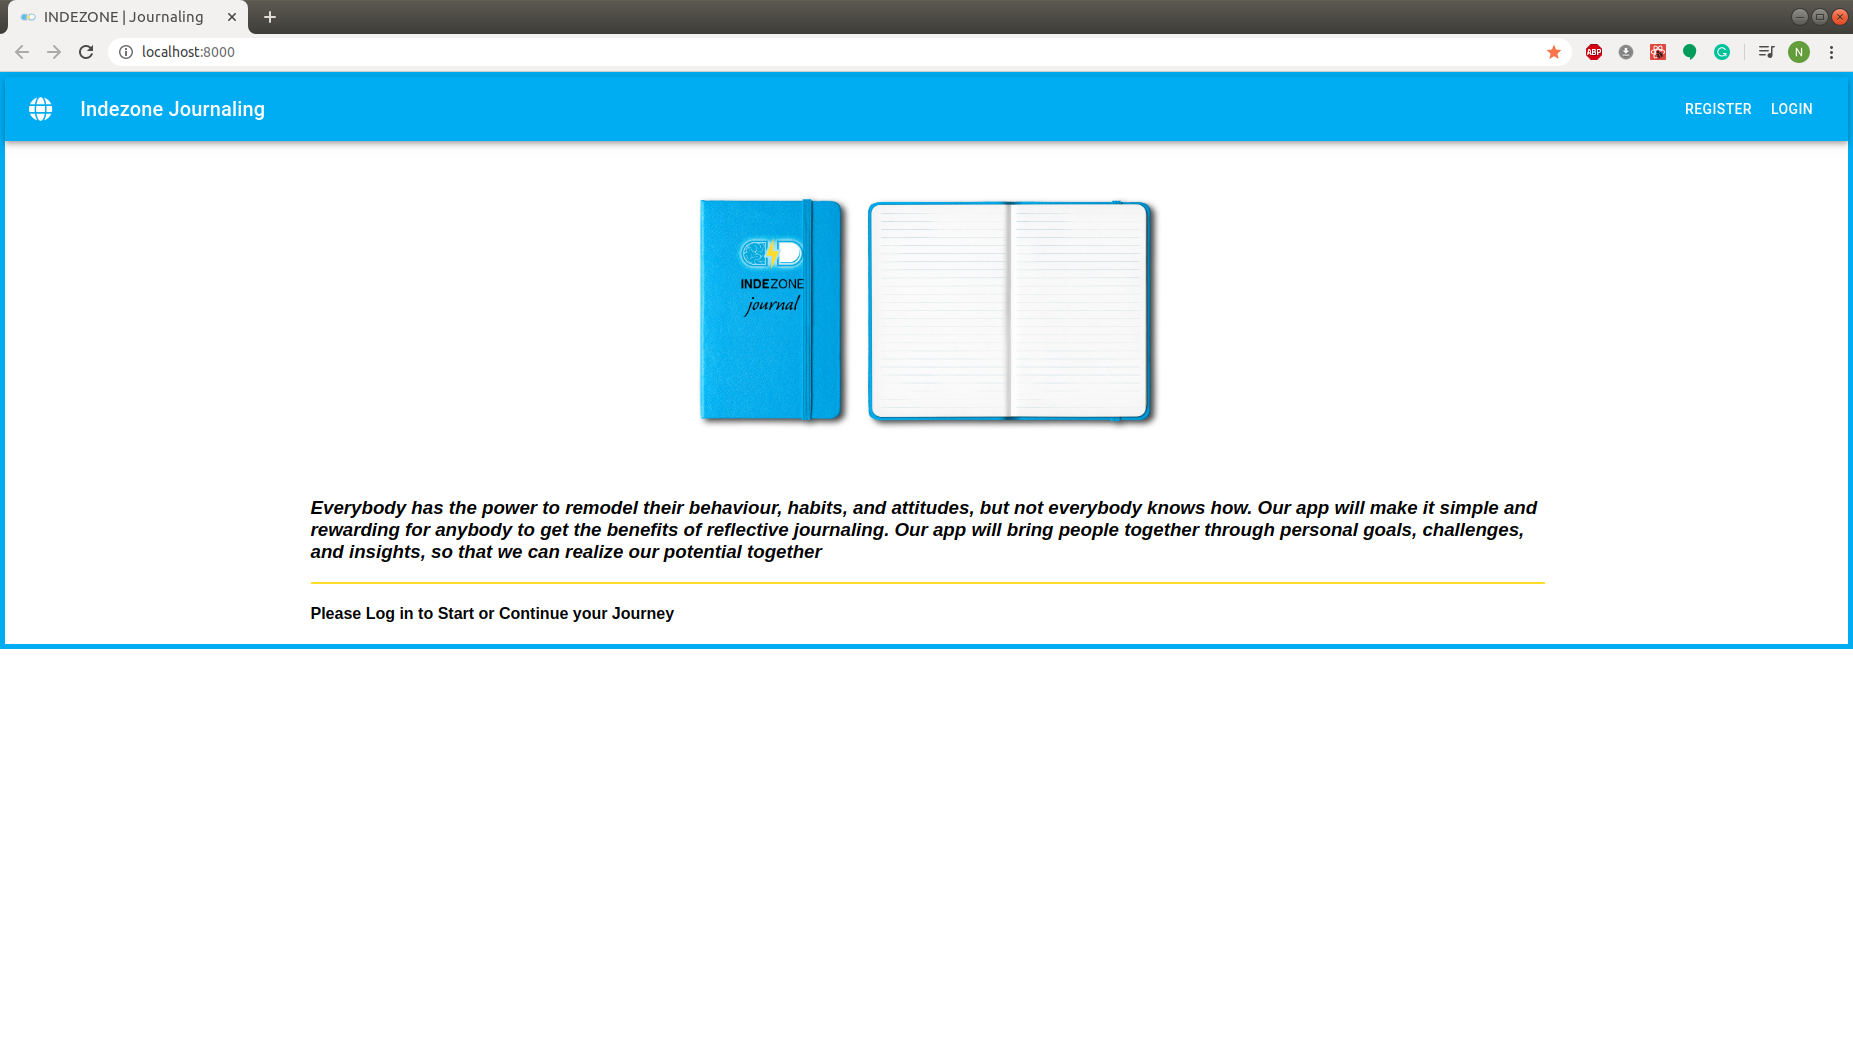
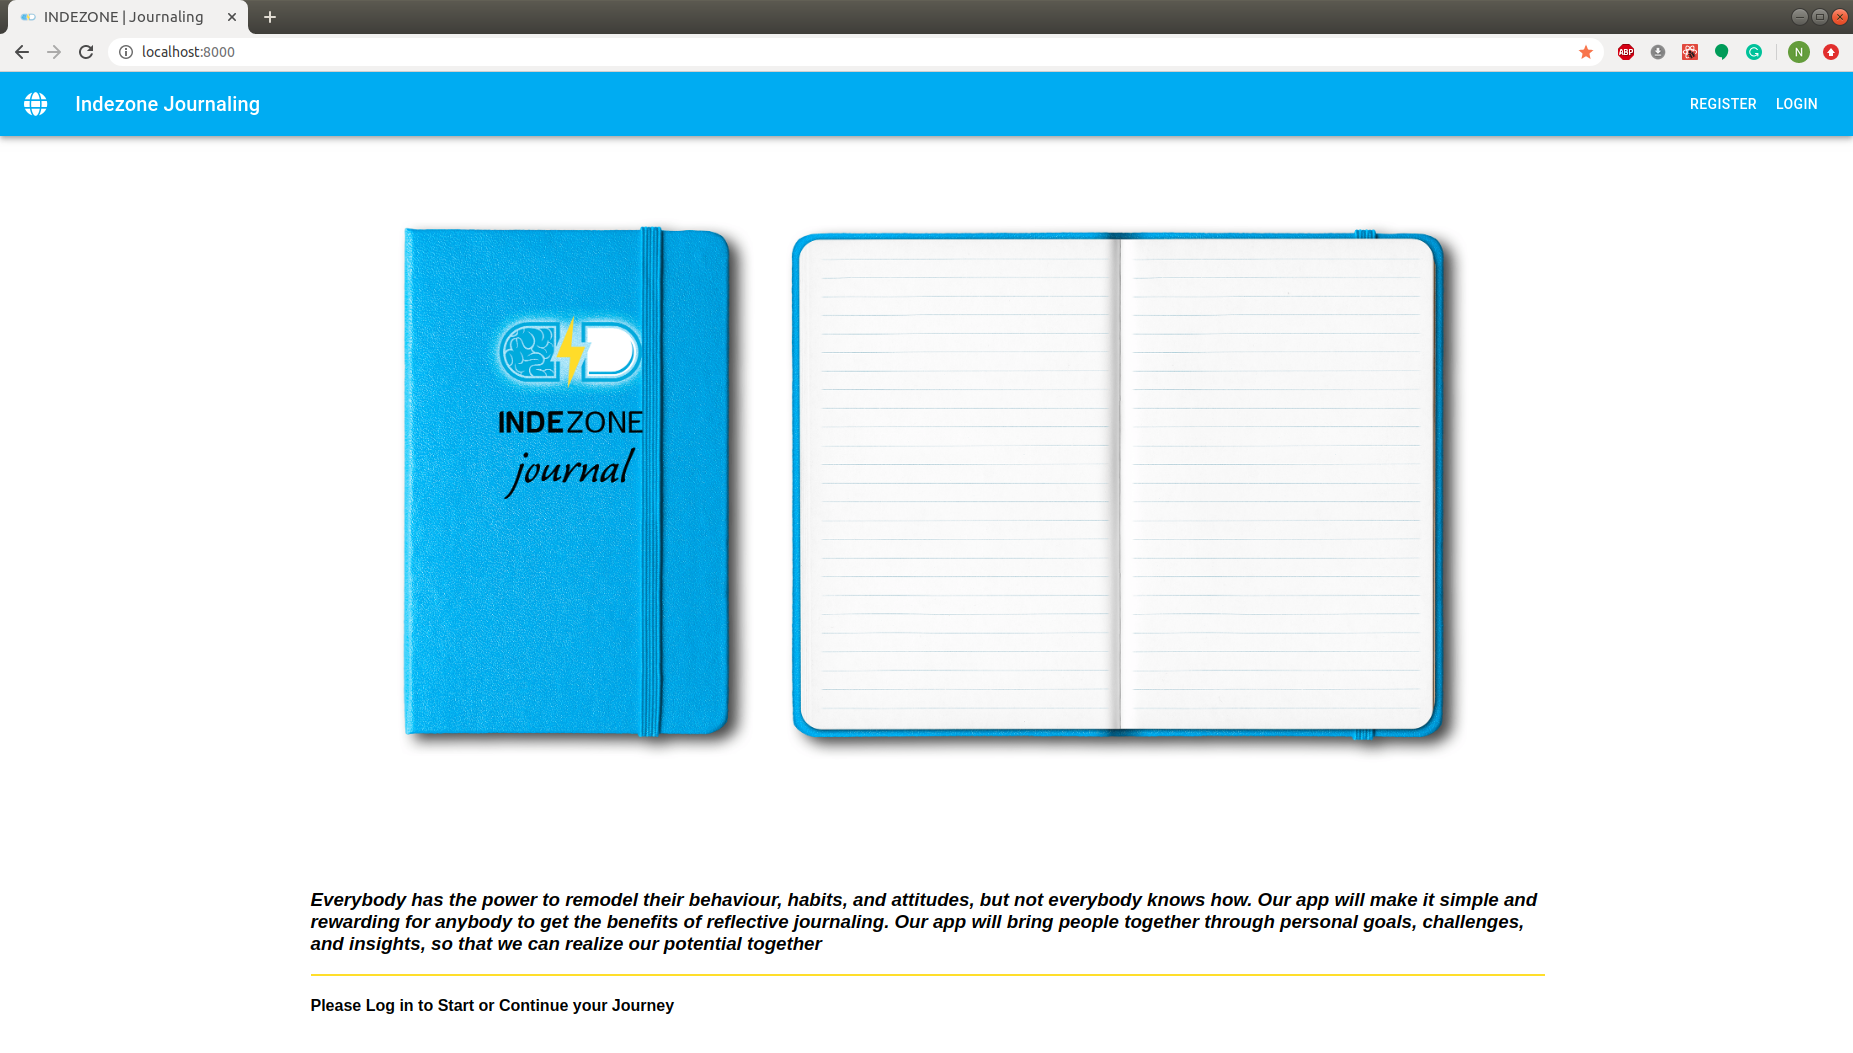
Fix layout issues and refactor code

diff --git a/client/src/components/Bio/Profile.scss b/client/src/components/Bio/Profile.scss
@@ -1,173 +1,6 @@
 @import "../../styles/variables.scss";
 @import "../../styles/mixins.scss";
 
-$prompt-height: 1rem;
-
-.prompt {
-  &__add {
-    min-height: $prompt-height;
-    padding: 2rem 0;
-    display: flex;
-    justify-content: center;
-    align-items: center;
-
-    &-button {
-      @include button-inactive--opacity;
-
-      &:hover {
-        @include button-active--opacity;
-      }
-    }
-  }
-
-  &__time { //I think I replaced this by accident
-    display: flex;
-  }
-
-  &__separator {
-    border: 0;
-    border-bottom: 1px solid darken($white, 5%);
-    width: 100%;
-    margin-left: 1rem;
-  }
-
-  &__card {
-    min-height: $prompt-height;
-    border-radius: 0.5rem;
-    padding: 1.2rem 1.5rem;
-    display: flex;
-    justify-content: space-between;
-    flex-flow: row wrap;
-    color: $white;
-
-    &--create {
-      background-color: $indezone-navy;
-      display: block;
-    }
-
-    &--show {
-      color: rgba($booked-color, $active-opacity);
-      background: linear-gradient(
-        90deg,
-        rgba($booked-color, $active-opacity),
-        rgba($booked-color, $active-opacity) 8px,
-        rgba($booked-color, $inactive-opacity) 0,
-        rgba($booked-color, $inactive-opacity)
-      );
-
-      &:hover {
-        color: darken($white, 5%);
-        background-color: rgba($booked-color, $active-opacity);
-      }
-    }
-
-    &--status {
-      background-color: $indezone-navy;
-      display: flex;
-      justify-content: center;
-      align-items: center;
-    }
-
-    &--confirm {
-      @include border-card($danger-color);
-
-      display: flex;
-      flex-direction: column;
-      justify-content: space-between;
-      align-items: center;
-    }
-
-    &--error {
-      @include border-card($error-color);
-
-      display: flex;
-      justify-content: space-between;
-      align-items: center;
-    }
-  }
-
-  &:last-of-type &__add,
-  &:last-of-type &__card {
-    display: flex;
-  }
-
-  &__actions {
-    margin-top: 1rem;
-    text-align: center;
-
-    &-button {
-      @include button-inactive--opacity;
-      margin-right: 0.5rem;
-      display: none;
-
-      &:hover {
-        @include button-active--opacity;
-      }
-
-      &:last-of-type {
-        margin-right: 0;
-      }
-    }
-  }
-
-  &__card:hover &__actions-button {
-    display: inline;
-  }
-
-  &__create-input {
-    background-color: $indezone-blue;
-    border: 0;
-    border-bottom: 1px solid;
-    color: $white;
-    font-size: 1.5rem;
-    margin-bottom: 0.25rem;
-    width: 100%;
-    min-height: 2rem;   
-    height: unset; 
-
-    &:focus {
-      outline: none;
-    }
-  }
-
-  &__status-image {
-    margin-right: 2rem;
-    animation: rotate 1s linear infinite;
-  }
-
-  &__error {
-    &-message {
-      display: flex;
-      flex-direction: column;
-    }
-
-    &-close {
-      @include button-inactive--opacity;
-
-      align-self: flex-start;
-      &:hover {
-        @include button-active--opacity;
-      }
-    }
-  }
-
-  &__validation {
-    color: $danger-color;
-    margin-bottom: 1rem;
-  }
-}
-
-#biopic-container{
-  width:50%;
-  height:100%
-}
-
-#biopic{
-  height:100%;
-  border-radius: 50%;
-  border: 10px double $white;
-}
-
 #bio{
   min-height: 20rem;
   border-radius: 3em;

diff --git a/client/src/components/WallItem.js b/client/src/components/WallItem.js
@@ -5,6 +5,7 @@ import { Button } from '@material-ui/core';
 import DeleteIcon from '@material-ui/icons/Delete';
 export default function WallItem(props) {
    return (
+     
     <TimelineEvent buttons={<Button onClick={() => props.handleDelete(props.id)}><DeleteIcon/></Button>} cardHeaderStyle = {styles.cardHeaderStyle} contentStyle={styles.contentStyle} container="card" bubbleStyle={styles.bubbleStyle} key={props.createdAt} title={props.question?props.question:""}
       createdAt={props.createdAt}
       icon={<i className="material-icons md-18"></i>}

diff --git a/client/src/components/Application.js b/client/src/components/Application.js
@@ -71,7 +71,9 @@ export default function Application() {
             expanded={state.expanded}
             answer = {state.answer}
           />
+          {state.currentUserGoals.length > 0 && (
           <Wall userGoals={state.currentUserGoals} userId={state.currentUser} handleDelete={handleDelete} />
+          )}
         </section>
       )}
       {state.currentUser === null && (

diff --git a/client/src/components/QuestionAnswer/AnswerQuestionPanel.js b/client/src/components/QuestionAnswer/AnswerQuestionPanel.js
@@ -23,7 +23,8 @@ const useStyles = makeStyles((theme) => ({
   },
 
   formStyle: {
-    backgroundColor: "#81d4fa",
+   // backgroundColor: "#81d4fa",
+    background:"linear-gradient(to bottom left, #66ccff 6%, #ffffff 106%)"
   },
 
   topo: {

diff --git a/client/src/components/Application.scss b/client/src/components/Application.scss
@@ -8,8 +8,8 @@
 //  justify-content: flex-start;
  // padding: 0 $spacing;
   width: 100%;
-  //height: 100vh;
-  border: 5px solid #03A9F4;
+  height: 100%;
+
 
 }
 
